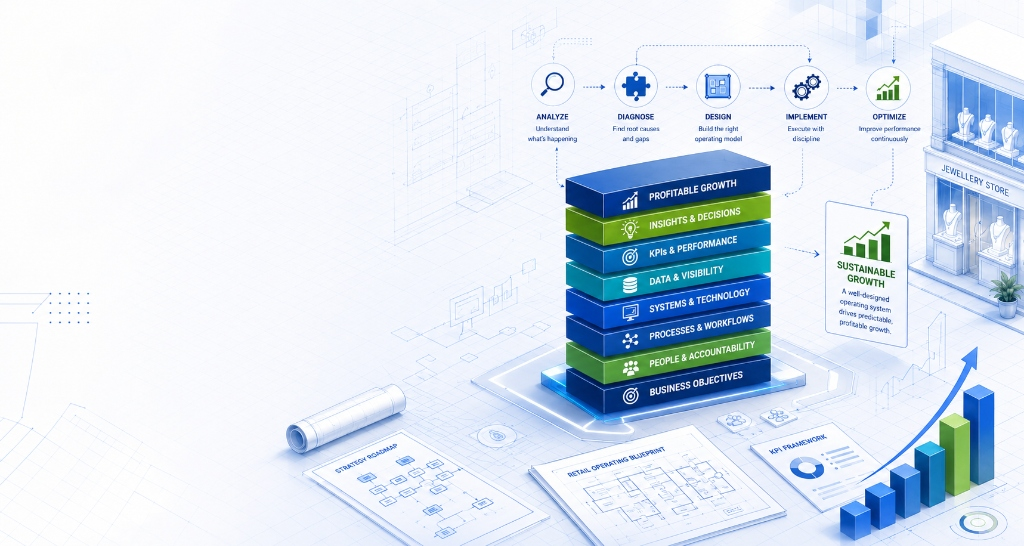
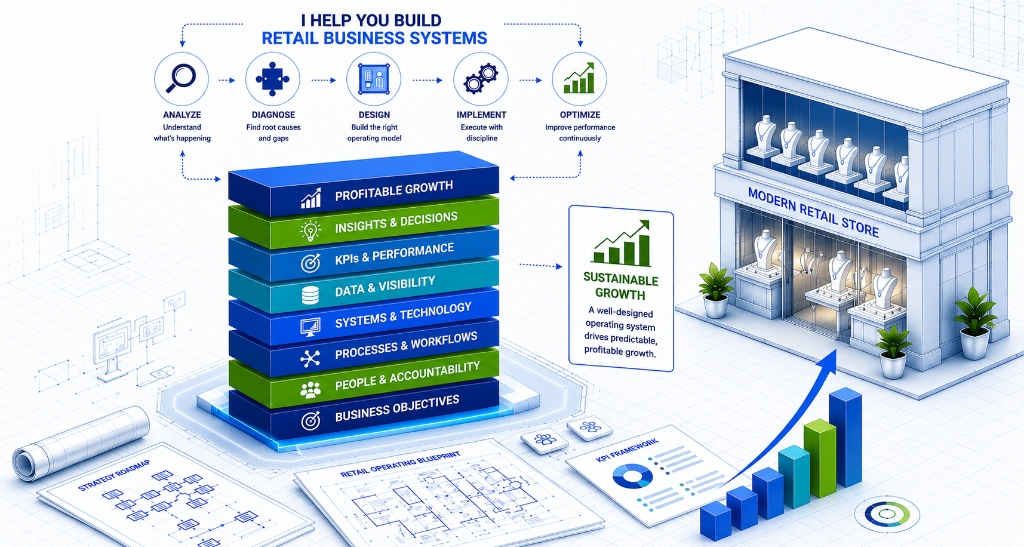
style: fit new clean background illustration and adjust columns

diff --git a/src/sections/home/HeroSection.tsx b/src/sections/home/HeroSection.tsx
@@ -1,5 +1,6 @@
 import { motion } from 'framer-motion';
 import { Calendar, Clock3 } from 'lucide-react';
+import { Link } from 'react-router-dom';
 
 // ─── Brand colours ────────────────────────────────────────────────────────────
 const NAVY  = '#0b2341';
@@ -18,6 +19,7 @@ const CAPS = [
     ),
     title: 'BUSINESS ANALYSIS',
     desc: 'Uncover gaps, root causes and growth opportunities.',
+    hoverClass: 'hover:border-[#1f5fbf]/30 hover:bg-blue-50/20',
   },
   {
     icon: (
@@ -29,6 +31,7 @@ const CAPS = [
     ),
     title: 'STRATEGY &\nTRANSFORMATION',
     desc: 'Design strategies that drive real change.',
+    hoverClass: 'hover:border-[#8bc34a]/30 hover:bg-green-50/20',
   },
   {
     icon: (
@@ -41,6 +44,7 @@ const CAPS = [
     ),
     title: 'OPERATIONS',
     desc: 'Design efficient, scalable and standard processes.',
+    hoverClass: 'hover:border-[#1f5fbf]/30 hover:bg-blue-50/20',
   },
   {
     icon: (
@@ -53,6 +57,7 @@ const CAPS = [
     ),
     title: 'PERFORMANCE\nMANAGEMENT',
     desc: 'Build KPI systems that drive accountability.',
+    hoverClass: 'hover:border-[#8bc34a]/30 hover:bg-green-50/20',
   },
   {
     icon: (
@@ -63,6 +68,7 @@ const CAPS = [
     ),
     title: 'RETAIL &\nJEWELLERY',
     desc: 'Optimize retail operations, inventory and customer experience.',
+    hoverClass: 'hover:border-[#8bc34a]/30 hover:bg-green-50/20',
   },
   {
     icon: (
@@ -76,6 +82,7 @@ const CAPS = [
     ),
     title: 'TECHNOLOGY\nENABLEMENT',
     desc: 'Leverage technology to automate and scale.',
+    hoverClass: 'hover:border-[#1f5fbf]/30 hover:bg-blue-50/20',
   },
 ];
 
@@ -92,21 +99,21 @@ export function HeroSection() {
     <div className="bg-white w-full">
 
       {/* ════════════════════ MAIN HERO ════════════════════ */}
-      <div className="relative bg-white overflow-hidden pt-8 lg:pt-14">
+      <div className="relative bg-white overflow-hidden">
         <div 
           className="max-w-[1280px] mx-auto px-6 lg:px-10
-                     grid grid-cols-1 lg:grid-cols-[40%_60%]
-                     items-start gap-6 lg:gap-0 relative z-10
-                     lg:bg-[url('/hero_background.jpg')] lg:bg-contain lg:bg-right lg:bg-no-repeat"
+                     grid grid-cols-1 lg:grid-cols-[38%_62%]
+                     items-stretch gap-6 lg:gap-0 relative z-10
+                     lg:bg-[url('/hero_background.jpg')] lg:bg-cover lg:bg-[position:right_center] lg:bg-no-repeat"
         >
 
           {/* ── LEFT COLUMN ── */}
-          <div className="flex flex-col gap-5 py-10 pr-4 lg:pr-8 lg:pt-36 lg:pb-16 relative z-10">
+          <div className="flex flex-col gap-5 py-10 pr-4 lg:pr-8 lg:pt-20 lg:pb-32 relative z-10 max-w-[460px] justify-center">
 
             {/* Badge */}
             <motion.span
               {...fadeUp(0)}
-              className="self-start px-3 py-[5px] text-[9px] font-black uppercase tracking-[0.14em] border"
+              className="self-start px-3 py-[5px] text-[11px] font-black uppercase tracking-[0.14em] border rounded-sm"
               style={{ color: BLUE, borderColor: `${BLUE}55` }}
             >
               Retail Business Management Consultant
@@ -116,60 +123,59 @@ export function HeroSection() {
             <motion.h1 {...fadeUp(0.07)} className="leading-[1.04] tracking-tight">
               <span
                 className="block font-black uppercase whitespace-nowrap"
-                style={{ color: NAVY, fontSize: 'clamp(26px, 3.8vw, 44px)' }}
+                style={{ color: NAVY, fontSize: 'clamp(28px, 3.8vw, 48px)' }}
               >
-                YOU CAN'T SCALE
+                YOU CAN’T SCALE
               </span>
               <span
                 className="block font-black uppercase whitespace-nowrap"
-                style={{ color: BLUE, fontSize: 'clamp(26px, 3.8vw, 44px)' }}
+                style={{ color: BLUE, fontSize: 'clamp(28px, 3.8vw, 48px)' }}
               >
-                WHAT YOU CAN'T SEE.
+                WHAT YOU CAN’T SEE.
               </span>
             </motion.h1>
 
             {/* Green rule */}
             <motion.div
               {...fadeUp(0.12)}
-              className="w-9 h-[3px] rounded-full"
+              className="w-12 h-[3.5px] rounded-full"
               style={{ background: GREEN }}
             />
 
             {/* Description */}
-            <motion.p {...fadeUp(0.16)} className="text-[13px] text-gray-700 leading-relaxed max-w-[340px]">
-              I design operational frameworks, KPI architectures,
-              and decision systems that help retail businesses
-              scale with confidence.
+            <motion.p {...fadeUp(0.16)} className="text-[14.5px] text-gray-700 leading-relaxed max-w-[500px] lg:max-w-none">
+              I design operational frameworks, KPI architectures, and decision systems<br className="hidden sm:inline" /> that help retail businesses scale with confidence.
             </motion.p>
 
             {/* Quote */}
-            <motion.div {...fadeUp(0.20)} className="max-w-[340px]">
-              <span className="text-[40px] font-black leading-none block -mb-2" style={{ color: GREEN }}>"</span>
-              <p className="text-[12.5px] italic text-gray-600 leading-relaxed">
-                "The next decade of jewellery retail belongs to the systemized.
-                The rest will be managed out of existence."
-              </p>
-              <span className="text-[40px] font-black leading-none block text-right -mt-3" style={{ color: GREEN }}>"</span>
+            <motion.div {...fadeUp(0.20)} className="max-w-[500px] lg:max-w-none relative flex gap-1.5">
+              <span className="text-[42px] font-serif font-black leading-none shrink-0" style={{ color: GREEN }}>“</span>
+              <div className="flex flex-col">
+                <p className="text-[14px] italic text-gray-600 leading-relaxed font-semibold">
+                  The next decade of jewellery retail belongs to the systemized.<br className="hidden sm:inline" /> The rest will be managed out of existence.
+                </p>
+              </div>
+              <span className="text-[42px] font-serif font-black leading-none self-end shrink-0" style={{ color: GREEN }}>”</span>
             </motion.div>
 
             {/* CTA Buttons */}
             <motion.div {...fadeUp(0.25)} className="flex flex-wrap gap-3 pt-1 clear-both">
-              <a
-                href="/contact"
-                className="inline-flex items-center gap-2 text-white text-[10.5px] font-black uppercase tracking-wider px-5 py-[11px] transition-opacity hover:opacity-90 shadow-md"
+              <Link
+                to="/#contact"
+                className="inline-flex items-center gap-2 text-white text-[12px] font-black uppercase tracking-wider px-6 py-[13px] transition-opacity hover:opacity-90 shadow-md rounded-sm"
                 style={{ background: GREEN }}
               >
                 <Calendar className="w-4 h-4" />
                 Connect Me Now
-              </a>
-              <a
-                href="/contact"
-                className="inline-flex items-center gap-2 text-[10.5px] font-black uppercase tracking-wider px-5 py-[11px] border-2 transition-colors hover:bg-gray-50/50 backdrop-blur-sm"
-                style={{ color: NAVY, borderColor: NAVY }}
+              </Link>
+              <Link
+                to="/#contact"
+                className="inline-flex items-center gap-2 text-[12px] font-black uppercase tracking-wider px-6 py-[13px] border-2 transition-all duration-300 hover:bg-[#1f5fbf] hover:text-white hover:border-[#1f5fbf] backdrop-blur-sm rounded-sm"
+                style={{ color: BLUE, borderColor: BLUE }}
               >
                 <Clock3 className="w-4 h-4" />
                 Book a 30-min Call
-              </a>
+              </Link>
             </motion.div>
           </div>
 
@@ -188,24 +194,22 @@ export function HeroSection() {
 
       {/* ════════════════════ BOTTOM CAPABILITIES STRIP ════════════════════ */}
       <div className="relative px-6 pb-16 z-20 bg-gray-50/30">
-        <div className="max-w-[1280px] mx-auto bg-white rounded-[16px] shadow-xl border border-gray-100/60 p-6 md:p-8 -mt-8 relative z-20">
-          <div className="grid grid-cols-2 md:grid-cols-3 lg:grid-cols-6 gap-6 lg:gap-0">
-            {CAPS.map((cap, index) => (
+        <div className="max-w-[1280px] mx-auto bg-white rounded-[16px] shadow-2xl border border-gray-100/60 p-4 md:p-6 -mt-8 lg:-mt-16 relative z-20">
+          <div className="grid grid-cols-2 md:grid-cols-3 lg:grid-cols-6 gap-3">
+            {CAPS.map((cap) => (
               <div 
                 key={cap.title} 
-                className={`flex flex-col gap-2 ${
-                  index !== 0 ? 'lg:border-l lg:border-gray-100 lg:pl-6' : ''
-                }`}
+                className={`group p-4 flex flex-col gap-2.5 border border-transparent rounded-xl transition-all duration-300 cursor-pointer hover:shadow-md hover:-translate-y-1 ${cap.hoverClass}`}
               >
-                <div className="mb-1">{cap.icon}</div>
+                <div className="mb-1 transition-transform duration-300 group-hover:scale-105">{cap.icon}</div>
                 <p
-                  className="text-[8.5px] font-black uppercase tracking-wide leading-tight whitespace-pre-line"
+                  className="text-[11.5px] font-black uppercase tracking-wide leading-tight whitespace-pre-line"
                   style={{ color: NAVY }}
                 >
                   {cap.title}
                 </p>
-                <p className="text-[8.5px] text-gray-500 leading-snug">{cap.desc}</p>
-                <div className="w-6 h-[2.5px] rounded-full mt-1" style={{ background: GREEN }} />
+                <p className="text-[11px] text-gray-500 leading-relaxed">{cap.desc}</p>
+                <div className="w-10 h-[3px] rounded-full mt-auto transition-all duration-300 group-hover:w-16" style={{ background: GREEN }} />
               </div>
             ))}
           </div>

diff --git a/src/components/Navbar.tsx b/src/components/Navbar.tsx
@@ -62,8 +62,8 @@ export function Navbar() {
 
   return (
     <nav
-      className={`sticky top-0 left-0 right-0 z-50 bg-white/95 backdrop-blur-md border-b border-gray-100 transition-all duration-300 ${
-        isScrolled ? 'py-1 shadow-sm' : 'py-2.5'
+      className={`sticky top-0 left-0 right-0 z-50 bg-[#0b2341]/95 backdrop-blur-md border-b border-white/10 transition-all duration-300 ${
+        isScrolled ? 'py-1 shadow-md' : 'py-2.5'
       }`}
     >
       <div className="w-full px-6">
@@ -71,15 +71,15 @@ export function Navbar() {
           {/* Logo - Stencil Chevron A with text */}
           <Link to="/" className="flex items-center gap-3 group">
             <svg viewBox="0 0 100 100" className="w-9 h-9 flex-shrink-0" fill="none" xmlns="http://www.w3.org/2000/svg">
-              {/* Left slanted leg of A (Navy) */}
-              <polygon points="18,80 47,20 59,20 30,80" fill="#0b2341" />
+              {/* Left slanted leg of A (White) */}
+              <polygon points="18,80 47,20 59,20 30,80" fill="white" />
               {/* Right slanted leg of A (Green) */}
               <polygon points="53,20 82,80 70,80 41,20" fill="#8bc34a" />
-              {/* Crossbar */}
-              <polygon points="26,58 35,58 65,58 74,58 68,64 32,64" fill="#0b2341" />
+              {/* Crossbar (White) */}
+              <polygon points="26,58 35,58 65,58 74,58 68,64 32,64" fill="white" />
             </svg>
             <div className="flex flex-col">
-              <span className="text-[15px] font-extrabold leading-tight text-[#0b2341] tracking-tight">
+              <span className="text-[15px] font-extrabold leading-tight text-white tracking-tight">
                 SCALE WITH ABRAHAM
               </span>
               <span className="text-[8.5px] font-bold uppercase tracking-[0.12em] text-[#8bc34a] leading-tight mt-0.5">
@@ -97,9 +97,9 @@ export function Navbar() {
                   <Link
                     key={link.to}
                     to={link.to}
-                    className="text-[10px] font-extrabold uppercase tracking-wider bg-[#1f5fbf] text-white px-5 py-2.5 transition-colors hover:bg-[#0b2341] rounded-none shadow-sm flex items-center gap-1.5"
+                    className="text-[10px] font-black uppercase tracking-wider bg-white text-[#0b2341] px-5 py-2.5 transition-all duration-300 hover:bg-[#8bc34a] hover:text-white rounded-sm shadow-sm flex items-center gap-1.5"
                   >
-                    Get in Touch <span className="text-xs">&rarr;</span>
+                    GET IN TOUCH <span className="text-xs">&rarr;</span>
                   </Link>
                 );
               }
@@ -109,10 +109,16 @@ export function Navbar() {
                 <Link
                   key={link.to}
                   to={link.to}
+                  onClick={(e) => {
+                    if (link.to === '/' && location.pathname === '/' && !location.hash) {
+                      e.preventDefault();
+                      window.scrollTo({ top: 0, behavior: 'smooth' });
+                    }
+                  }}
                   className={`relative py-1 text-xs font-black uppercase tracking-wider transition-all duration-300 after:absolute after:bottom-0 after:left-0 after:h-[2px] after:w-full after:origin-bottom-right after:scale-x-0 after:transition-transform after:duration-300 hover:after:origin-bottom-left hover:after:scale-x-100 ${
                     active
-                      ? 'text-[#0b2341] after:scale-x-100'
-                      : 'text-slate-500 hover:text-[#0b2341]'
+                      ? 'text-white after:scale-x-100'
+                      : 'text-slate-300 hover:text-white'
                   } after:bg-[#8bc34a]`}
                 >
                   {link.label}
@@ -124,7 +130,7 @@ export function Navbar() {
           {/* Mobile Menu Toggle */}
           <div className="flex items-center gap-2 md:hidden">
             <button
-              className="w-9 h-9 rounded-full flex items-center justify-center hover:bg-gray-100 text-[#0b2341] transition-colors"
+              className="w-9 h-9 rounded-full flex items-center justify-center hover:bg-white/10 text-white transition-colors"
               onClick={() => setMobileOpen(!mobileOpen)}
               aria-label="Toggle menu"
             >
@@ -136,7 +142,7 @@ export function Navbar() {
 
       {/* Mobile Menu */}
       {mobileOpen && (
-        <div className="md:hidden border-t bg-white border-gray-100">
+        <div className="md:hidden border-t bg-[#0b2341] border-white/10">
           <div className="w-full px-6 py-4 flex flex-col gap-2">
             <div className="max-w-[1200px] mx-auto flex flex-col gap-2 w-full">
               {visibleLinks.map((link) => {
@@ -147,9 +153,9 @@ export function Navbar() {
                       key={link.to}
                       to={link.to}
                       onClick={() => setMobileOpen(false)}
-                      className="mx-4 my-2 px-4 py-3 rounded-none text-center text-xs font-extrabold uppercase tracking-wider bg-[#1f5fbf] text-white hover:bg-[#0b2341] transition-colors block"
+                      className="mx-4 my-2 px-4 py-3 rounded-sm text-center text-xs font-extrabold uppercase tracking-wider bg-white text-[#0b2341] hover:bg-[#8bc34a] hover:text-white transition-all duration-300 block"
                     >
-                      {link.label} &rarr;
+                      GET IN TOUCH &rarr;
                     </Link>
                   );
                 }
@@ -159,11 +165,17 @@ export function Navbar() {
                   <Link
                     key={link.to}
                     to={link.to}
-                    onClick={() => setMobileOpen(false)}
+                    onClick={(e) => {
+                      setMobileOpen(false);
+                      if (link.to === '/' && location.pathname === '/' && !location.hash) {
+                        e.preventDefault();
+                        window.scrollTo({ top: 0, behavior: 'smooth' });
+                      }
+                    }}
                     className={`px-4 py-2.5 rounded-none text-xs font-black uppercase tracking-wider transition-colors block ${
                       active
-                        ? 'text-[#0b2341] bg-slate-50 font-bold'
-                        : 'text-slate-500 hover:text-[#0b2341] hover:bg-slate-50'
+                        ? 'text-white bg-white/10 font-bold'
+                        : 'text-slate-300 hover:text-white hover:bg-white/5'
                     }`}
                   >
                     {link.label}

diff --git a/src/pages/Portal.tsx b/src/pages/Portal.tsx
@@ -240,11 +240,19 @@ async function sha256(message: string) {
 }
 
 export function Portal() {
-  const { isPortalAuthenticated, setPortalAuthenticated, hidePortal } = usePortal();
+  const { isPortalAuthenticated, setPortalAuthenticated, hidePortal, isPortalVisible } = usePortal();
   const isAuthenticated = isPortalAuthenticated;
+  const navigate = useNavigate();
   const [passcode, setPasscode] = useState('');
   const [authError, setAuthError] = useState('');
   const [activeTab, setActiveTab] = useState<'workflows' | 'kpis' | 'checklist' | 'report'>('workflows');
+
+  // Redirect to home if portal visibility is off and not authenticated (e.g. on page refresh)
+  useEffect(() => {
+    if (!isPortalVisible && !isPortalAuthenticated) {
+      navigate('/', { replace: true });
+    }
+  }, [isPortalVisible, isPortalAuthenticated, navigate]);
 
   // Checklist State — kept in localStorage so audit progress persists across sessions
   const [checkedItems, setCheckedItems] = useState<Record<string, boolean>>(() => {
@@ -287,7 +295,6 @@ export function Portal() {
     }
   };
 
-  const navigate = useNavigate();
 
   const handleLogout = () => {
     hidePortal(); // clears both portal visibility and auth in one call

diff --git a/src/components/PageShell.tsx b/src/components/PageShell.tsx
@@ -28,6 +28,13 @@ export function PageShell({ children }: PageShellProps) {
     setTimeout(() => setToast(null), 3500);
   };
 
+  // Scroll to top on pathname change (unless there is a hash)
+  useEffect(() => {
+    if (!location.hash) {
+      window.scrollTo(0, 0);
+    }
+  }, [location.pathname, location.hash]);
+
   // ── Page-view + click analytics ──────────────────────────────────────
   useEffect(() => {
     logPageView(location.pathname, document.referrer);

diff --git a/src/sections/home/CTASection.tsx b/src/sections/home/CTASection.tsx
@@ -8,7 +8,7 @@ import { CalendarBooking } from '../../components/CalendarBooking';
 export function CTASection() {
   const [isBookingOpen, setIsBookingOpen] = useState(false);
   return (
-    <section className="bg-white section-padding-lg">
+    <section id="contact" className="bg-white section-padding-lg">
       <div className="w-full px-6">
         <div className="max-w-[1200px] mx-auto">
           <ScrollReveal>